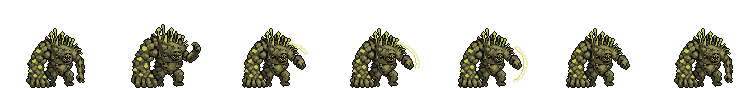
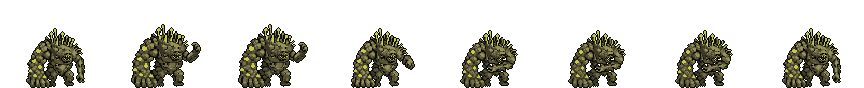
Brute swipe = cocked arm, arm out, arm across (Yan: keep as the punch); contact frame 4
Claude-Session: https://claude.ai/code/session_01Jpd5tdDJTR7BVueAYV1KDM

diff --git a/ArtSource/brute_build.py b/ArtSource/brute_build.py
@@ -6,7 +6,7 @@ import numpy as np
 from PIL import Image, ImageDraw
 from scipy import ndimage as nd
 HERE = os.path.dirname(os.path.abspath(__file__)); D = os.path.join(HERE, "mutants_anim", "brute_poses"); OUT = os.path.join(HERE, "mutants_anim", "brute"); os.makedirs(OUT, exist_ok=True)
-SRC = {"idle": "idle", "slam_up": "slam_up", "slam_hit": "slam_hit", "out": "wind", "cock": "set3_f1"}       # round-2 poses (brute_recover2.py): his idle, slam wind-up, slam hit, arm out, arm cocked
+SRC = {"idle": "idle", "slam_up": "slam_up", "slam_hit": "slam_hit", "out": "wind", "cock": "set3_f1", "across": "set3_f3"}       # round-2 poses (brute_recover2.py): his idle, slam wind-up, slam hit, arm out, arm cocked
 P = {}
 def spine(a):
     yel = (a[..., 1] > 180) & (a[..., 2] < 120) & (a[..., 3] > 0); ys, xs = np.where(yel[: int(a.shape[0] * 0.45)]); return xs.max() - xs.min() + 1
@@ -117,18 +117,18 @@ def rock_in_fist(im, a, fr):
     hx, hy, ytop = hand(a); ox = CX - crest(a); oy = H - a.shape[0]; rk = ROCK[fr % 6]; im.alpha_composite(rk, (ox + hx - 11, oy + ytop - 12)); return im
 def build(seq):
     out = []
-    for key, ms, fx, n in seq:
-        im = put(P[key])
+    for key, ms, fx, n, *dxs in seq:
+        im = put(P[key], dxs[0] if dxs else 0)
         if fx == "arc": im = arc_over(im, P[key], n)
         elif fx == "rock": im = rock_in_fist(im, P[key], n)
         out.append(clean(im))
     return out
 SEQ = {
     "slam":  [("idle", 140, None, 0), ("slam_up", 480, None, 0), ("slam_hit", 70, None, 0), ("slam_hit", 330, None, 0), ("slam_hit", 260, None, 0), ("idle", 220, None, 0)],
-    "swipe": [("idle", 100, None, 0), ("cock", 300, None, 0), ("out", 60, "arc", 0), ("out", 70, "arc", 1), ("out", 110, "arc", 2), ("out", 150, None, 0), ("idle", 200, None, 0)],
+    "swipe": [("idle", 100, None, 0), ("cock", 280, None, 0), ("cock", 50, None, 0, -1), ("out", 50, None, 0, 1), ("across", 70, None, 0, 2), ("across", 130, None, 0, 2), ("across", 100, None, 0, 1), ("idle", 220, None, 0)],      # Yan: "keep that for the swipe/punch"
     "throw": [("idle", 120, None, 0), ("cock", 260, "rock", 0), ("cock", 220, "rock", 1), ("out", 90, None, 0), ("out", 250, None, 0), ("idle", 240, None, 0)],
 }
-CONTACT = {"slam": 2, "swipe": 2, "throw": 3}
+CONTACT = {"slam": 2, "swipe": 4, "throw": 3}
 def strip_of(fr):
     s = Image.new("RGBA", (W * len(fr), H), (0, 0, 0, 0))
     for i, f in enumerate(fr): s.alpha_composite(f, (i * W, 0))
@@ -140,7 +140,7 @@ def gif(path, frames, ms, sc=6):
     d = list(ms); d[-1] += 500; fs[0].save(path, save_all=True, append_images=fs[1:], duration=d, loop=0)
 meta = {}
 for name, seq in SEQ.items():
-    fr = build(seq); ms = [t for _, t, _, _ in seq]
+    fr = build(seq); ms = [t[1] for t in seq]
     strip_of(fr).save(os.path.join(OUT, f"blight_brute_{name}_strip.png")); gif(os.path.join(OUT, f"{name}.gif"), fr, ms)
     meta[name] = {"frame": [W, H], "ms": ms, "travel": [0.0] * len(fr)}
 for i, f in enumerate(walk): f.save(os.path.join(OUT, f"frame{i}.png"))

diff --git a/ArtSource/export_mutant_attacks.py b/ArtSource/export_mutant_attacks.py
@@ -5,7 +5,7 @@ import json, os, shutil, numpy as np
 from PIL import Image
 HERE = os.path.dirname(os.path.abspath(__file__)); OUT = os.path.join(HERE, "..", "Assets", "Resources", "Sprites", "Mutants", "anim"); os.makedirs(OUT, exist_ok=True)
 SETS = {"veil_prowler": "veil_attacks", "pallid_prowler": "pallid_attacks", "dread_prowler": "dread_attacks", "blind_maw": "maw_attacks", "blight_brute": "brute"}
-CONTACT = {"veil_prowler": {"bite": 5, "bite2": 7, "pounce": 8}, "pallid_prowler": {"bite": 5, "bite2": 7}, "blind_maw": {"bite": 5, "bite2": 7, "pounce": 8}, "dread_prowler": {"bite": 5, "bite2": 5, "pounce": 8}, "blight_brute": {"slam": 2, "swipe": 2, "throw": 3}}
+CONTACT = {"veil_prowler": {"bite": 5, "bite2": 7, "pounce": 8}, "pallid_prowler": {"bite": 5, "bite2": 7}, "blind_maw": {"bite": 5, "bite2": 7, "pounce": 8}, "dread_prowler": {"bite": 5, "bite2": 5, "pounce": 8}, "blight_brute": {"slam": 2, "swipe": 4, "throw": 3}}
 table = {}
 for key, folder in SETS.items():
     d = os.path.join(HERE, "mutants_anim", folder); js = json.load(open(os.path.join(d, [f for f in os.listdir(d) if f.endswith(".json") and "attacks" in f][0])))[key]

diff --git a/Assets/Scripts/GameData/MutantAttackData.cs b/Assets/Scripts/GameData/MutantAttackData.cs
@@ -35,7 +35,7 @@ namespace GameData
             ["Blight Brute"] = new Dictionary<string, AttackAnim>
             {
                 ["slam"] = new AttackAnim { Frames = 6, W = 108, H = 88, Contact = 2, ContactMs = 620, TotalMs = 1500, PivotY = 0.18182f, Ms = new[] { 140, 480, 70, 330, 260, 220 }, Travel = new[] { 0.0f, 0.0f, 0.0f, 0.0f, 0.0f, 0.0f } },
-                ["swipe"] = new AttackAnim { Frames = 7, W = 108, H = 88, Contact = 2, ContactMs = 400, TotalMs = 990, PivotY = 0.18182f, Ms = new[] { 100, 300, 60, 70, 110, 150, 200 }, Travel = new[] { 0.0f, 0.0f, 0.0f, 0.0f, 0.0f, 0.0f, 0.0f } },
+                ["swipe"] = new AttackAnim { Frames = 8, W = 108, H = 88, Contact = 4, ContactMs = 480, TotalMs = 1000, PivotY = 0.18182f, Ms = new[] { 100, 280, 50, 50, 70, 130, 100, 220 }, Travel = new[] { 0.0f, 0.0f, 0.0f, 0.0f, 0.0f, 0.0f, 0.0f, 0.0f } },
                 ["throw"] = new AttackAnim { Frames = 6, W = 108, H = 88, Contact = 3, ContactMs = 600, TotalMs = 1180, PivotY = 0.18182f, Ms = new[] { 120, 260, 220, 90, 250, 240 }, Travel = new[] { 0.0f, 0.0f, 0.0f, 0.0f, 0.0f, 0.0f } },
             },
         };
